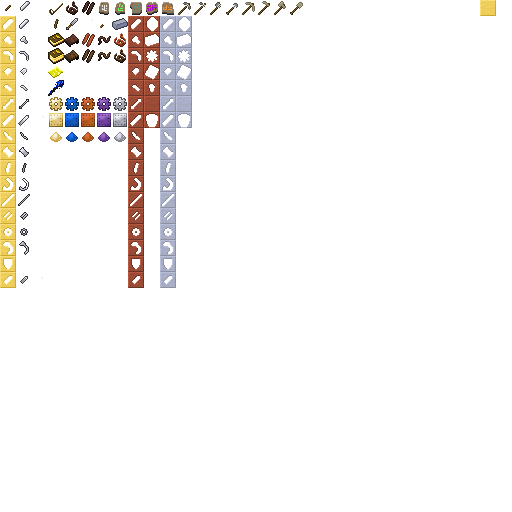
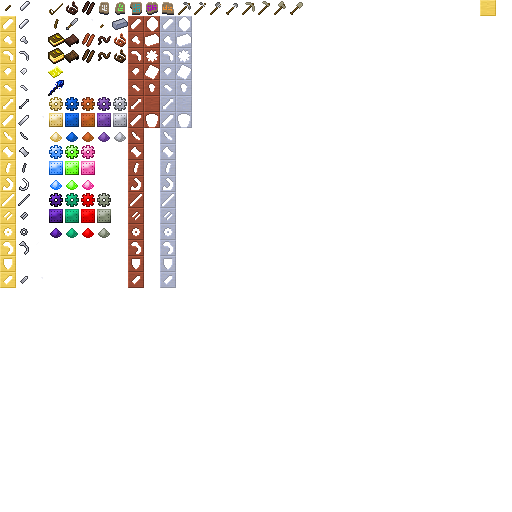
Add Botania and AbyssalCraft metal parts

Changed region(s): [[0.0938, 0.2812, 0.2188, 0.4688]]

diff --git a/src/main/java/com/sudoplay/mc/pwcustom/modules/craftingparts/item/ItemCraftingPart.java b/src/main/java/com/sudoplay/mc/pwcustom/modules/craftingparts/item/ItemCraftingPart.java
@@ -76,7 +76,28 @@ public class ItemCraftingPart
     GEAR_MANYULLYN("gear_manyullyn", 26),
     PLATE_MANYULLYN("plate_manyullyn", 27),
     DUST_MANYULLYN("dust_manyullyn", 28),
-    UNFIRED_BRICK("unfired_brick", 29)
+    UNFIRED_BRICK("unfired_brick", 29),
+    GEAR_MANASTEEL("gear_manasteel", 30),
+    PLATE_MANASTEEL("plate_manasteel", 31),
+    DUST_MANASTEEL("dust_manasteel", 32),
+    GEAR_TERRASTEEL("gear_terrasteel", 33),
+    PLATE_TERRASTEEL("plate_terrasteel", 34),
+    DUST_TERRASTEEL("dust_terrasteel", 35),
+    GEAR_ELEMENTIUM("gear_elementium", 36),
+    PLATE_ELEMENTIUM("plate_elementium", 37),
+    DUST_ELEMENTIUM("dust_elementium", 38),
+    GEAR_ABYSSALNITE("gear_abyssalnite", 39),
+    PLATE_ABYSSALNITE("plate_abyssalnite", 40),
+    DUST_ABYSSALNITE("dust_abyssalnite", 41),
+    GEAR_CORALIUM("gear_coralium", 42),
+    PLATE_CORALIUM("plate_coralium", 43),
+    DUST_CORALIUM("dust_coralium", 44),
+    GEAR_DREADIUM("gear_dreadium", 45),
+    PLATE_DREADIUM("plate_dreadium", 46),
+    DUST_DREADIUM("dust_dreadium", 47),
+    GEAR_ETHAXIUM("gear_ethaxium", 48),
+    PLATE_ETHAXIUM("plate_ethaxium", 49),
+    DUST_ETHAXIUM("dust_ethaxium", 50)
     ;
 
     private static final EnumType[] META_LOOKUP = Stream
